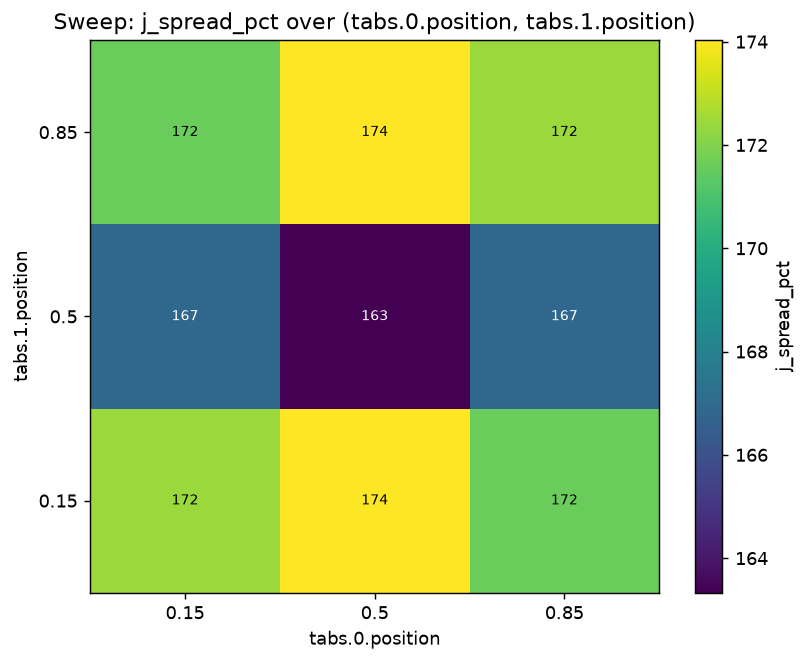
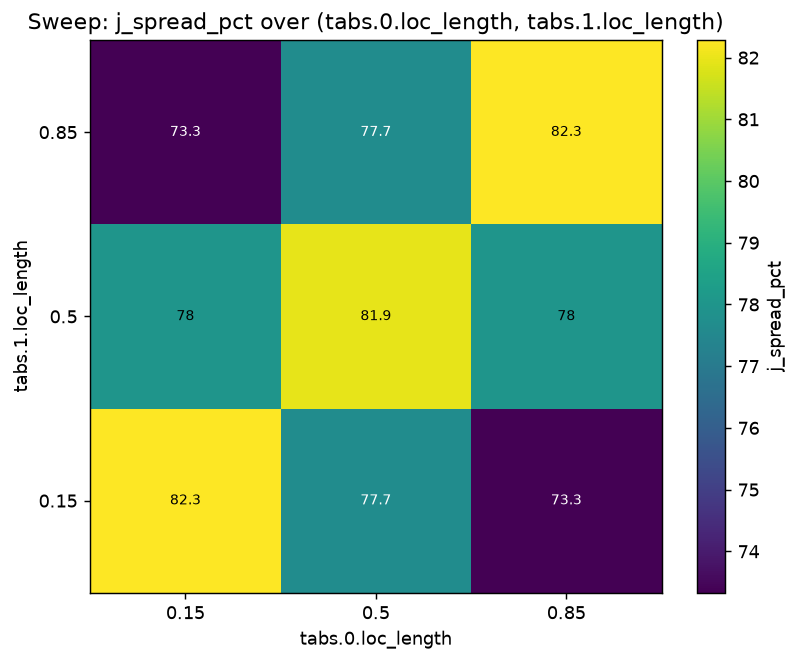
Round-4 review fixes: repair broken tab-sweep example, harden setter, docs
Scientific review (2 agents) confirmed the stack-axis generalization is correct
(adversarial rotational invariance to ~1e-13 across x/y/z, both solvers) and the
footprint tab physics is correct. Fixes:
- FIX [HIGH]: examples/tab_placement_sweep.py swept the removed tabs.*.position
  field, which set_dotted silently accepted -> every 'layout' was identical.
  Now sweeps tabs.*.loc_length (produces real varying results).
- api.set_dotted now raises on an unknown dataclass field (was a silent no-op),
  so mistyped sweep/override paths fail loudly.
- Strengthened the rotational-invariance test to an adversarial cell (distinct
  extents, per-axis mesh, asymmetric per-role cooling) for planar & layered.
- De-'z'ed config docstrings (Stack/Jellyroll/Mesh/FaceBC), fixed stale tab-model
  wording in INTERFACES.md and the distributed guard message; documented that the
  tab's conducting width is size_length. Regenerated the tab-sweep figure.

Tests: 41 pass (was 39; +1 adversarial invariance param, example now meaningful).

Claude-Session: https://claude.ai/code/session_01Qo7jwtmVq5XcHcLoTajQLo

diff --git a/prismaticcell/config.py b/prismaticcell/config.py
@@ -65,23 +65,25 @@ class Layer:
 class Stack:
     """One electrode sandwich (repeat unit): CathodeCC | Cathode | Sep | Anode | AnodeCC.
 
-    ``width`` x ``height`` is the in-plane electrode footprint of the sandwich.
+    ``width`` x ``height`` is the in-plane electrode footprint of the sandwich: ``width`` maps to
+    the electrode LENGTH axis and ``height`` to the electrode HEIGHT axis (the two axes that are
+    not ``assembly.stack_axis``).
     """
     layers: List[Layer]         # ordered layers of ONE sandwich
-    width: float                # m, in-plane x extent (electrode)
-    height: float               # m, in-plane y extent (electrode)
+    width: float                # m, electrode LENGTH extent (first in-plane axis)
+    height: float               # m, electrode HEIGHT extent (second in-plane axis)
 
 
 @dataclass
 class Jellyroll:
-    """A jellyroll = ``n_stacks`` electrode sandwiches through the thickness (z).
+    """A jellyroll = ``n_stacks`` electrode sandwiches stacked along ``assembly.stack_axis``.
 
     ``origin`` is the lower corner of the roll's bounding box inside the can cavity
     (m, [x,y,z]); if ``None`` the geometry builder auto-arranges the rolls per
-    ``Assembly.arrangement``. Both rolls are wired in parallel to the cell tabs.
+    ``Assembly.arrangement``. All rolls are wired in parallel to the cell tabs.
     """
     stack: Stack                # the repeated sandwich
-    n_stacks: int               # number of sandwiches stacked through z
+    n_stacks: int               # number of sandwiches stacked along the through-plane axis
     origin: Optional[List[float]] = None
 
 
@@ -113,7 +115,9 @@ class Tab:
     (e.g. Al 13 µm / Cu 6 µm) and ``material`` to its collector material — i.e. "a tab the size of
     the current-collector thickness". All ``n_stacks`` collector foils (both jellyrolls) bus to it
     in parallel. ``protrusion`` is the out-of-cell tab length used for the series R_tab and the
-    tab heat-loss path.
+    tab heat-loss path; the current-carrying width is taken as ``size_length`` (so
+    R_tab = protrusion / (sigma * n_foils * size_length * thickness)), while ``size_height`` only
+    positions the footprint.
     """
     polarity: Literal["pos", "neg"]
     loc_length: float = 0.5     # fractional center along the electrode length axis (0..1)
@@ -183,10 +187,12 @@ class ECM:
 # --------------------------------------------------------------------------- #
 @dataclass
 class Mesh:
-    """Structured grid resolution. ``nx``,``ny`` also set the ECM network size."""
-    nx: int                     # in-plane x cells (electrode + tab columns)
-    ny: int                     # in-plane y cells
-    nz: int                     # through-plane thermal cells (stack layering)
+    """Structured grid resolution along the physical x/y/z axes. The two axes that are not
+    ``assembly.stack_axis`` set the in-plane ECM-network resolution; the stack axis resolves the
+    through-thickness stack layering."""
+    nx: int                     # cells along physical x
+    ny: int                     # cells along physical y
+    nz: int                     # cells along physical z
 
 
 FaceName = Literal["top", "bottom", "x_min", "x_max", "y_min", "y_max"]
@@ -196,7 +202,9 @@ FaceName = Literal["top", "bottom", "x_min", "x_max", "y_min", "y_max"]
 class FaceBC:
     """Boundary condition on one external face of the cell.
 
-    ``top``/``bottom`` are the +z/-z (large) faces; the four sides are x/y min/max.
+    Face names are physical: ``top``/``bottom`` are the +z/-z faces; the four sides are x/y
+    min/max. Which of these are the large flat faces depends on ``assembly.stack_axis`` (e.g. for
+    ``stack_axis='y'`` the large faces are ``y_min``/``y_max``).
     """
     kind: Literal["convection", "dirichlet", "neumann", "adiabatic"]
     h: float = 0.0              # W/m^2/K, convective coefficient (convection)

diff --git a/tests/test_stack_axis.py b/tests/test_stack_axis.py
@@ -103,6 +103,54 @@ def test_stack_axis_rotational_invariance():
     assert np.isclose(rz.T_mean[-1], ry.T_mean[-1], atol=1e-4)
 
 
+_AXI = {"x": 0, "y": 1, "z": 2}
+_FACES = {0: ("x_min", "x_max"), 1: ("y_min", "y_max"), 2: ("top", "bottom")}
+
+
+def _rotated_cfg(stack_axis):
+    """Same physical cell, rotated so the stack axis is x/y/z, with DISTINCT length/height/stack
+    extents, per-role mesh counts, and asymmetric per-role cooling -- so the la/ha distinction is
+    actually exercised (a symmetric cube would pass even with la/ha transposed)."""
+    sa = _AXI[stack_axis]
+    la, ha = [a for a in (0, 1, 2) if a != sa]
+    stack = Stack(_layers(), width=0.16, height=0.10)     # length=0.16, height=0.10 (distinct)
+    # ~40 sandwiches/roll -> ~16 mm stack extent, resolvable by the nS=4 stack mesh below
+    asm = Assembly([Jellyroll(stack, 40), Jellyroll(stack, 40)],
+                   stack_axis=stack_axis, arrangement="stacked", inter_gap=5e-4, wall_clearance=2e-4)
+    ecm = ECM(50.0, os.path.join(DATA, "lfp_ocv.csv"), os.path.join(DATA, "lfp_entropy.csv"),
+              os.path.join(DATA, "lfp_r0.csv"), 20000.0,
+              rc_pairs=[RCPair(os.path.join(DATA, "lfp_rc1_r.csv"),
+                               os.path.join(DATA, "lfp_rc1_c.csv"), 22000.0, 0.0)])
+    tabs = [Tab("pos", loc_length=0.2, loc_height=0.9, size_length=0.02, size_height=0.01),
+            Tab("neg", loc_length=0.8, loc_height=0.9, size_length=0.02, size_height=0.01)]
+    enc = Enclosure("prismatic", "can_al", 0.8e-3, 150.0)
+    dims = [0, 0, 0]; dims[la], dims[ha], dims[sa] = 8, 5, 4        # per-role mesh counts
+    cool = Cooling()
+    for ax, h in ((la, 12.0), (ha, 27.0), (sa, 40.0)):            # per-role cooling
+        for f in _FACES[ax]:
+            setattr(cool, f, FaceBC("convection", h=h, t_inf=298.15))
+    cfg = SimConfig("rot", _mats(), asm, tabs, enc, ecm, Mesh(*dims), cool,
+                    Load("constant_current", 20.0), Solver(dt=30.0, t_end=300.0))
+    cfg.data_root = "."
+    return cfg
+
+
+@pytest.mark.parametrize("cm", ["planar", "layered"])
+def test_stack_axis_rotational_invariance_adversarial(cm):
+    """A non-symmetric cell (distinct extents, per-axis mesh, asymmetric cooling) gives IDENTICAL
+    results whichever physical axis is the stack axis -- proving geometry/distributed/thermal all
+    share one consistent axis convention (would fail if len_axis/hgt_axis were transposed)."""
+    res = {}
+    for ax in ("x", "y", "z"):
+        cfg = _rotated_cfg(ax)
+        cfg.solver.collector_model = cm
+        res[ax] = coupling.run(cfg)
+    for ax in ("x", "y"):
+        assert np.isclose(res[ax].v_terminal[-1], res["z"].v_terminal[-1], atol=1e-7)
+        assert np.isclose(res[ax].T_max[-1], res["z"].T_max[-1], atol=1e-5)
+        assert np.isclose(res[ax].T_mean[-1], res["z"].T_mean[-1], atol=1e-5)
+
+
 def test_tab_thickness_defaults_to_collector():
     """A tab with thickness=None uses that polarity's collector thickness (Al 13um / Cu 6um)."""
     cfg = _cfg("y", width=0.20, height=0.12)

diff --git a/examples/tab_placement_sweep.py b/examples/tab_placement_sweep.py
@@ -1,6 +1,6 @@
 """Design study: how tab placement affects hotspot temperature and current uniformity.
 
-Sweeps the positive and negative tab positions along their edge and records, for each layout,
+Sweeps the positive and negative tab locations along the electrode length and records, per layout,
 the peak temperature, the in-plane temperature spread, and the current-density non-uniformity.
 Demonstrates the intended use of the tool for tab-placement design.
 
@@ -41,21 +41,21 @@ def main():
     base.solver.t_end = 1800.0
     base.load.value = 2.0   # 2C to accentuate ohmic/tab effects
 
-    # sweep the two tab positions along their (y_max) edge
+    # sweep the two tabs' fractional location along the electrode length
     grid = {
-        "tabs.0.position": [0.15, 0.5, 0.85],
-        "tabs.1.position": [0.15, 0.5, 0.85],
+        "tabs.0.loc_length": [0.15, 0.5, 0.85],
+        "tabs.1.loc_length": [0.15, 0.5, 0.85],
     }
     print("Running tab-placement sweep (9 layouts) ...")
     rows = Sweep(base, grid).run(reducer=uniformity_reducer)
     for r in rows:
-        print(f"  pos+={r['tabs.0.position']:.2f} pos-={r['tabs.1.position']:.2f} "
+        print(f"  pos+={r['tabs.0.loc_length']:.2f} pos-={r['tabs.1.loc_length']:.2f} "
               f"-> Tmax={r['T_max_C']:.2f}C dT={r['dT_K']:.2f}K "
               f"j_spread={r['j_spread_pct']:.1f}%")
 
-    viz.plot_sweep_heatmap(rows, x="tabs.0.position", y="tabs.1.position", z="T_max_C",
+    viz.plot_sweep_heatmap(rows, x="tabs.0.loc_length", y="tabs.1.loc_length", z="T_max_C",
                            path=os.path.join(args.out, "tab_sweep_Tmax.png"))
-    viz.plot_sweep_heatmap(rows, x="tabs.0.position", y="tabs.1.position", z="j_spread_pct",
+    viz.plot_sweep_heatmap(rows, x="tabs.0.loc_length", y="tabs.1.loc_length", z="j_spread_pct",
                            path=os.path.join(args.out, "tab_sweep_jspread.png"))
     print(f"Sweep heatmaps written to {args.out}/")
 

diff --git a/prismaticcell/api.py b/prismaticcell/api.py
@@ -15,6 +15,7 @@ from __future__ import annotations
 
 import copy
 import itertools
+from dataclasses import is_dataclass, fields as dc_fields
 from typing import Any, Callable, Dict, List, Optional, Union
 
 from .config import SimConfig
@@ -37,12 +38,19 @@ def _descend(obj: Any, key: str) -> Any:
 
 
 def _assign(obj: Any, key: str, value: Any) -> None:
-    """Assign ``value`` onto ``obj`` at the final path segment ``key``."""
+    """Assign ``value`` onto ``obj`` at the final path segment ``key``.
+
+    For dataclass targets an unknown field raises (rather than silently attaching an ignored
+    attribute) so a mistyped sweep/override path fails loudly instead of being a silent no-op.
+    """
     if isinstance(obj, list):
         obj[int(key)] = value
     elif isinstance(obj, dict):
         obj[key] = value
     else:
+        if is_dataclass(obj) and key not in {f.name for f in dc_fields(obj)}:
+            raise AttributeError(
+                f"{type(obj).__name__} has no field '{key}' (dotted-path typo?)")
         setattr(obj, key, value)
 
 

diff --git a/prismaticcell/distributed.py b/prismaticcell/distributed.py
@@ -191,7 +191,7 @@ def solve_network(
     if n_pos_nodes == 0 or n_neg_nodes == 0:
         raise ValueError(
             "Network is not terminated: need at least one positive and one negative tab "
-            f"node (got {n_pos_nodes} pos, {n_neg_nodes} neg). Check tab edges/positions."
+            f"node (got {n_pos_nodes} pos, {n_neg_nodes} neg). Check tab loc/size footprints."
         )
 
     if collector_model == "layered":

diff --git a/docs/INTERFACES.md b/docs/INTERFACES.md
@@ -63,8 +63,10 @@ wall). Uniform grid. Tag each cell by center location: can-wall shell → REGION
 roll bbox → REGION_ACTIVE with `materials.homogenize(sandwich_layers)` mapped so **k_z = through-
 plane, k_x=k_y = in-plane**. `cap_cv` normalized so it sums exactly to `cfg.ecm.capacity_Ah`.
 Foil sheet conductance uses the collector layer's `sigma_elec` × its thickness × `n_stacks`. Tab
-nodes = the `y_max`(or configured edge) columns spanning `tab.width` at fractional `tab.position`,
-for every roll (both rolls parallel to the same terminal).
+nodes = the electrode columns under each tab's rectangular footprint (fractional `loc_length`,
+`loc_height` center; `size_length` × `size_height` extents), for every roll (both rolls parallel
+to the same terminal). Anisotropy and the electrode plane follow `assembly.stack_axis` (the
+through-plane axis); the two in-plane axes are the electrode length and height.
 
 ---
 
